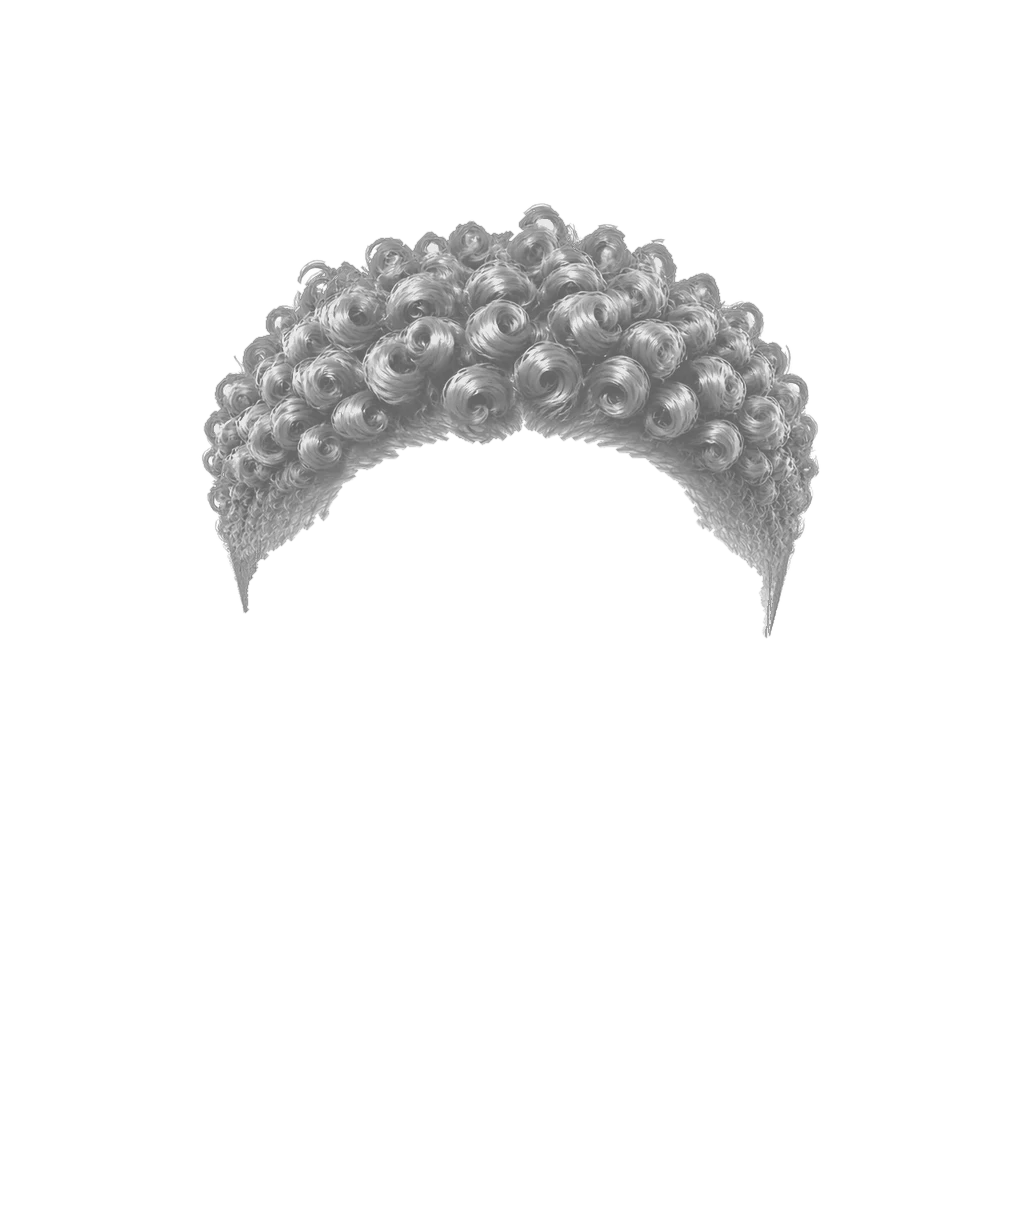
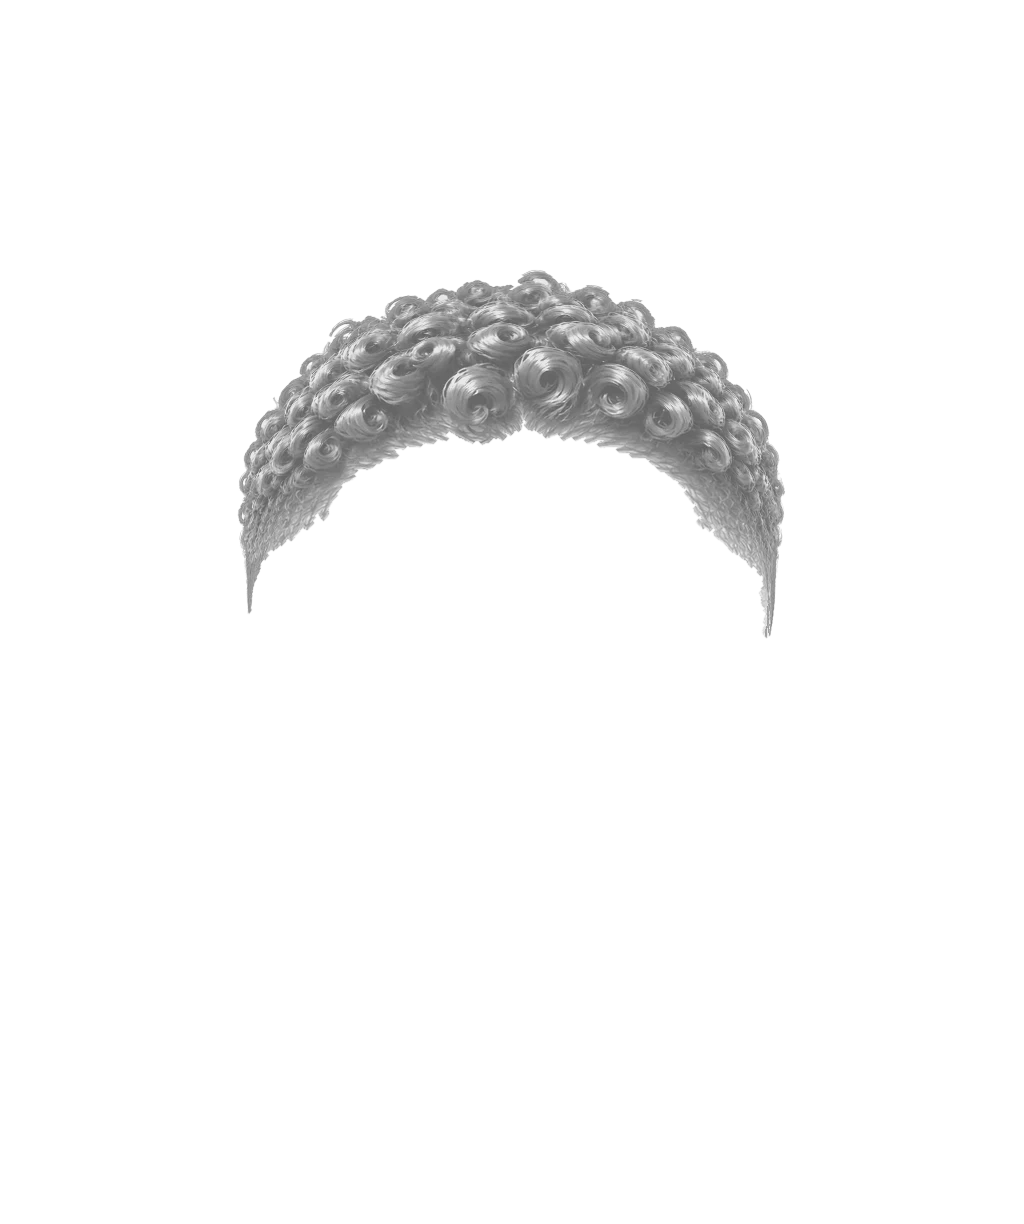
Pull the template hairstyles in so they sit close to the head
The generator drew the hair bigger than the head, standing well above the scalp
and out at the sides. Hair outside the skull now keeps 55% of its distance from
it, most at the top and not at all below the eyes, so long hair still falls as
drawn and the hairline and face are unchanged.

Changed region(s): [[0.1875, 0.1552, 0.8125, 0.4967]]

diff --git a/docs/ARCHITECTURE.md b/docs/ARCHITECTURE.md
@@ -465,7 +465,7 @@ Players pick one of the 12 built-in pictures, or make their own in the **avatar 
 - **The code.** A made-up avatar is stored and sent as a short code, `w1.` followed by one id per part in the order of `AVATAR_FIELDS` (`packages/protocol/src/accounts.ts`), e.g. `w1.classic.4.none…`. It goes wherever a built-in avatar id goes: the join message, the account, the room and match history. The server only checks its shape (`isAvatarValue`), allowing up to 32 parts. New parts are only ever added to the end, so older codes stay valid, and the web app draws any part it doesn't know as the default. Part, colour, pose and expression ids are never renamed, and colours are only ever added to the end of a palette.
 - **Poses.** Each pose is its own template, with every part drawn for that angle, in `apps/web/public/art/avatar-parts/<pose>/<category>/<option>/<file>`. A pose can reuse another's art flipped left to right (`mirrorOf`). Each option lists the poses it has art for, and the creator only offers what the chosen pose has. Today there's one pose, `front`.
 - **The parts** are listed in `apps/web/src/avatar/parts.ts`: the files each option has, whether a hat covers the top of the hair, all of it or none, whether a part is painted once for each value of another part (`paintedFor`: a head per skin tone, `head-3.webp`; an eye per eye colour, `open-3.webp`; a mouth per skin tone, `mouth-3.webp`, with only the lips recoloured to suit the skin; every mouth hangs from the same line under the nose, and open mouths are made smaller so none is more than 100 pixels tall on the grid and reaches the chin), and whether it's a pair (`pair`): eyes, lashes and eyebrows are drawn for the left of the picture only, and the right is the same art flipped around the middle of the face. Lashes are made once for each eye shape (`paintedFor: "eyes"`, `lashes-e3.webp`): when the files are made, the top edge of each eye's lid is measured and the base of each lash style is bent onto it, column by column, so the lashes grow out of the lid with no gap on any eye shape. Past the outer corner the lashes keep their own flick, and they stop at the inner corner. The eyebrows move up or down with the eye shape (`browDrop`), so they sit as far above every eye as above Eyes 2, and move up a little more for lashes tall enough to reach them (`browLift`, only Lashes 11 today), leaving at least 8 pixels between lashes and brows on the grid. The eye gap moves the eyes, lashes and eyebrows out from (or in to) the middle together, 6 pixels on the grid per step. The head comes with its neck and shoulders, so clothes are drawn over it. A unit test checks that every listed file exists, in every pose and tone.
-- **Hair on the template.** New hair is drawn by the owner's image generator on the head template (the bald head on a 1024 × 1224 canvas, 200 pixels of room above the grid), so it fits the head as it is. The generator often changes the picture's size and moves the head, so the picture (a see-through background counting as white) is resized and moved until its skin lines up best with the template's. The hair is what's darker than the template there and not skin coloured, outside the face itself. Deep inside the hair it's solid; near its edges, and where it fades into the skin (a fade haircut), how see-through it is comes from how much darker it is than the template. It's turned to grey for the hair colour, and a soft `shadow` file of it is drawn on the skin just after the head. Styles made this way have ids starting `hc`.
+- **Hair on the template.** New hair is drawn by the owner's image generator on the head template (the bald head on a 1024 × 1224 canvas, 200 pixels of room above the grid), so it fits the head as it is. The generator often changes the picture's size and moves the head, so the picture (a see-through background counting as white) is resized and moved until its skin lines up best with the template's. The hair is what's darker than the template there and not skin coloured, outside the face itself. Deep inside the hair it's solid; near its edges, and where it fades into the skin (a fade haircut), how see-through it is comes from how much darker it is than the template. The generator tends to draw the hair bigger than the head, so it's then pulled in: along lines from the middle of the head, hair outside the skull keeps 55% of its distance from it, most at the top and upper sides and not at all below the eyes, so long hair still falls as drawn. It's turned to grey for the hair colour, and a soft `shadow` file of it is drawn on the skin just after the head. Styles made this way have ids starting `hc`.
 - **Hair from other art.** The first test styles (`hb`) were painted on a head with a longer, narrower face than ours, so each style is bent to fit when its files are made, rather than scaled as one piece (which made it sit on the head like a wig): the crown is sized so its edge just above the hairline (250 on the grid) sits on our skull plus the hair's own thickness, and follows the skull's curve lower down; the face opening is widened to 410 wide, a little narrower than the head, so the hair covers the sides of the head instead of stopping at its edge; the hair around the face keeps the crown's proportions, so it isn't blown up; and between the hairline and the ears the hair always reaches past the edge of the skull. Hair files reach 200 pixels above the grid (`above`), so tall styles like buns fit, and the whole avatar is drawn at 85% of its circle from the bottom (`FRAME` in `render.ts`), leaving room above the head as in the reference art; close-ups in the creator show the parts at full size. Long hair has a `back` file drawn behind the head: the hair behind the neck, and a dark fill for the back of the hair between the hair and the face. The hair is turned to grey for the hair colour, and hair cuffs are kept in their own colours in a `details` file drawn over it.
 - **Colours.** Parts the player recolours (hair, eyebrows, facial hair, clothes, some hats) are drawn in grey with the main colour at 55% grey, and the browser colours them with a gradient map: dark greys become the shadow colour, the main grey the chosen colour, light greys the highlight, and white stays white.
 - **Expressions.** The player only picks their parts; the saved expression is Happy, which uses the mouth they picked. The other faces (laughing, wink, cheeky, surprised, thinking) each use one of the twelve mouths, and are for the game to pull for a reaction (`avatarPicture` takes a `Face`); the winks need eyes with a closed version. A wink joins half of the open eyes with half of the closed ones.
